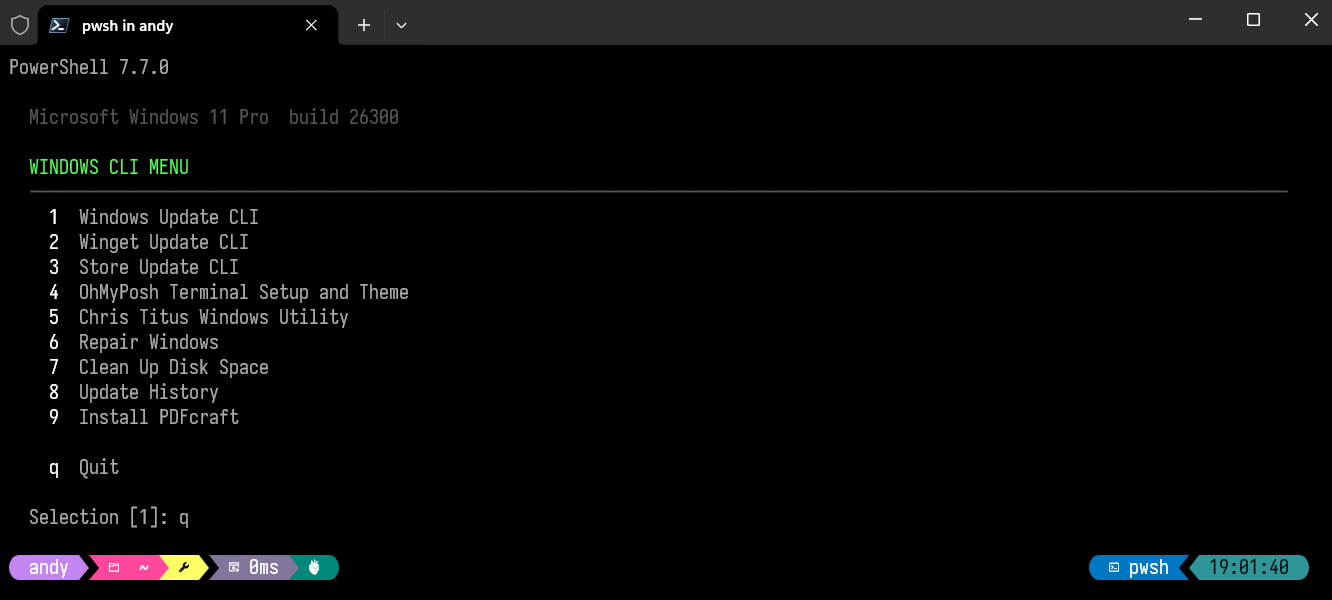
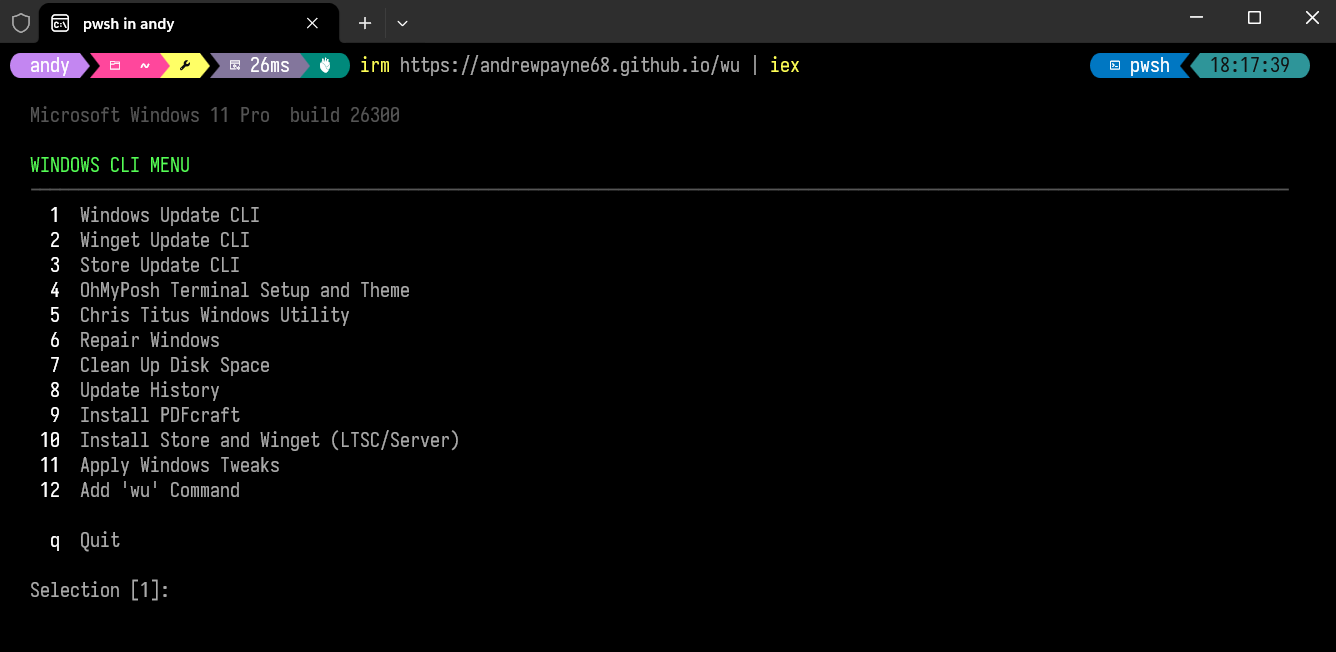
README: menu screenshot with all 12 options

diff --git a/README.md b/README.md
@@ -6,9 +6,7 @@ irm https://andrewpayne68.github.io/wu | iex
 
 It elevates itself if needed (UAC prompt, then continues in an admin Windows Terminal tab) and shows a menu:
 
-![The WINDOWS CLI MENU in Windows Terminal: 1 Windows Update CLI, 2 Winget Update CLI, 3 Store Update CLI, 4 OhMyPosh Terminal Setup and Theme, 5 Chris Titus Windows Utility, 6 Repair Windows, 7 Clean Up Disk Space, 8 Update History, 9 Install PDFcraft, q Quit](menu.png)
-
-Options 10-12 aren't in this screenshot yet: **Install Store and Winget (LTSC/Server)**, **Apply Windows Tweaks** and **Add 'wu' Command**.
+![The WINDOWS CLI MENU in Windows Terminal: 1 Windows Update CLI, 2 Winget Update CLI, 3 Store Update CLI, 4 OhMyPosh Terminal Setup and Theme, 5 Chris Titus Windows Utility, 6 Repair Windows, 7 Clean Up Disk Space, 8 Update History, 9 Install PDFcraft, 10 Install Store and Winget (LTSC/Server), 11 Apply Windows Tweaks, 12 Add 'wu' Command, q Quit](menu.png)
 
 After each one finishes you're back at the menu.
 
